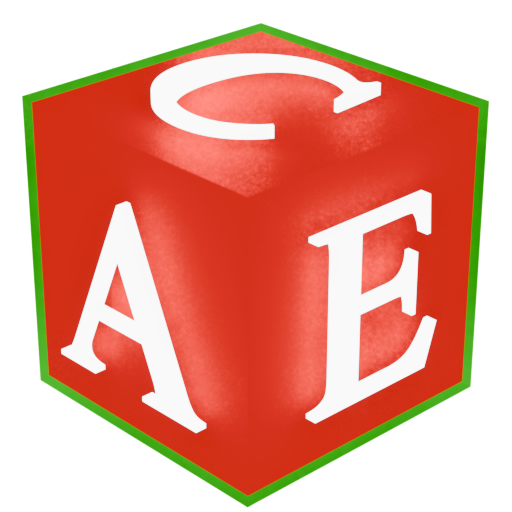
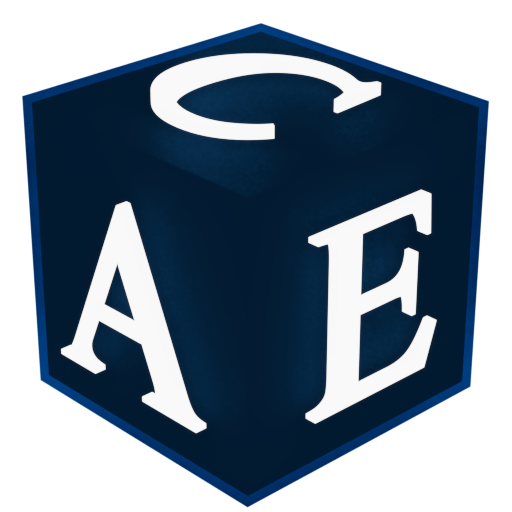
removal of winter theme

diff --git a/resources/navbar.css b/resources/navbar.css
@@ -4,12 +4,12 @@
     justify-content: center;
     flex-shrink: 5;
     border: 1px solid #333333;
-    background: #5f411e;
-    background-image: -webkit-linear-gradient(to top, #5f4e1e, #40382a);
-    background-image: -moz-linear-gradient(top, #5f4e1e, #40382a);
-    background-image: -ms-linear-gradient(top, #5f4e1e, #40382a);
-    background-image: -o-linear-gradient(top, #5f4e1e, #40382a);
-    background-image: radial-gradient(circle, #5f4e1e, #40382a);
+    background: #1e3a5f;
+    background-image: -webkit-linear-gradient(to top, #1e3a5f, #2a3640);
+    background-image: -moz-linear-gradient(top, #1e3a5f, #2a3640);
+    background-image: -ms-linear-gradient(top, #1e3a5f, #2a3640);
+    background-image: -o-linear-gradient(top, #1e3a5f, #2a3640);
+    background-image: radial-gradient(circle, #1e3a5f, #2a3640);
     -webkit-box-shadow: 0px 2px 6px #000000;
     -moz-box-shadow: 0px 2px 6px #000000;
     box-shadow: 0px 2px 6px #000000;
@@ -23,12 +23,12 @@
   }
   
   .ico{
-    background: #5f411e;
-    background-image: -webkit-linear-gradient(top, #5f4e1e, #75664a);
-    background-image: -moz-linear-gradient(top, #5f4e1e, #75664a);
-    background-image: -ms-linear-gradient(top, #5f4e1e, #75664a);
-    background-image: -o-linear-gradient(top, #5f4e1e, #75664a);
-    background-image: linear-gradient(to bottom, #5f4e1e, #75664a);
+    background: #1e3a5f;
+    background-image: -webkit-linear-gradient(top, #1e3a5f, #2a5792);
+    background-image: -moz-linear-gradient(top, #1e3a5f, #2a5792);
+    background-image: -ms-linear-gradient(top, #1e3a5f, #2a5792);
+    background-image: -o-linear-gradient(top, #1e3a5f, #2a5792);
+    background-image: linear-gradient(to bottom, #1e3a5f, #2a5792);
     -webkit-border-radius: 3;
     -moz-border-radius: 3;
     border-radius: 3px;
@@ -57,12 +57,12 @@
   }
   
   .btn {
-    background: #5e5f1e;
-    background-image: -webkit-linear-gradient(top, #5e5f1e, #92902a);
-    background-image: -moz-linear-gradient(top, #5e5f1e, #92902a);
-    background-image: -ms-linear-gradient(top, #5e5f1e, #92902a);
-    background-image: -o-linear-gradient(top, #5e5f1e, #92902a);
-    background-image: linear-gradient(to bottom, #5e5f1e, #92902a);
+    background: #1e3a5f;
+    background-image: -webkit-linear-gradient(top, #1e3a5f, #2a5792);
+    background-image: -moz-linear-gradient(top, #1e3a5f, #2a5792);
+    background-image: -ms-linear-gradient(top, #1e3a5f, #2a5792);
+    background-image: -o-linear-gradient(top, #1e3a5f, #2a5792);
+    background-image: linear-gradient(to bottom, #1e3a5f, #2a5792);
     -webkit-border-radius: 3;
     -moz-border-radius: 3;
     border-radius: 3px;
@@ -74,10 +74,10 @@
     color: #e0e0e0;
     font-size: 15px;
     padding: 6px 40px 6px 40px;
-    border-top: solid #92592a 1px;
-    border-right: solid #5f3b1e 1px;
-    border-bottom: solid #3d1f0d 1px;
-    border-left: solid #5f3b1e 1px;
+    border-top: solid #2a5792 1px;
+    border-right: solid #1e3a5f 1px;
+    border-bottom: solid #0d223d 1px;
+    border-left: solid #1e3a5f 1px;
     text-decoration: none;
   }
   
@@ -107,22 +107,22 @@
   }
   
   .btnunsel:hover {
-    background: #5f481e;
-    background-image: -webkit-linear-gradient(top, #5f481e, #92482a);
-    background-image: -moz-linear-gradient(top, #5f481e, #92482a);
-    background-image: -ms-linear-gradient(top, #5f481e, #92482a);
-    background-image: -o-linear-gradient(top, #5f481e, #92482a);
-    background-image: linear-gradient(to bottom, #5f481e, #92482a);
+    background: #1e3a5f;
+    background-image: -webkit-linear-gradient(top, #1e3a5f, #2a5792);
+    background-image: -moz-linear-gradient(top, #1e3a5f, #2a5792);
+    background-image: -ms-linear-gradient(top, #1e3a5f, #2a5792);
+    background-image: -o-linear-gradient(top, #1e3a5f, #2a5792);
+    background-image: linear-gradient(to bottom, #1e3a5f, #2a5792);
     text-decoration: none;
   }
   
   .btnsel {
-    background: #5f361e;
-    background-image: -webkit-linear-gradient(top, #5f361e, #923f2a);
-    background-image: -moz-linear-gradient(top, #5f361e, #923f2a);
-    background-image: -ms-linear-gradient(top, #5f361e, #923f2a);
-    background-image: -o-linear-gradient(top, #5f361e, #923f2a);
-    background-image: linear-gradient(to bottom, #5f361e, #923f2a);
+    background: #1e3a5f;
+    background-image: -webkit-linear-gradient(top, #1e3a5f, #2a5792);
+    background-image: -moz-linear-gradient(top, #1e3a5f, #2a5792);
+    background-image: -ms-linear-gradient(top, #1e3a5f, #2a5792);
+    background-image: -o-linear-gradient(top, #1e3a5f, #2a5792);
+    background-image: linear-gradient(to bottom, #1e3a5f, #2a5792);
     -webkit-border-radius: 3;
     -moz-border-radius: 3;
     border-radius: 3px;
@@ -134,19 +134,19 @@
     color: #e0e0e0;
     font-size: 15px;
     padding: 6px 40px 6px 40px;
-    border-top: solid #92832a 1px;
-    border-right: solid #5f5e1e 1px;
-    border-bottom: solid #3d380d 1px;
-    border-left: solid #5f5e1e 1px;
+    border-top: solid #2a5792 1px;
+    border-right: solid #1e3a5f 1px;
+    border-bottom: solid #0d223d 1px;
+    border-left: solid #1e3a5f 1px;
     text-decoration: none;
   }
   
   .btn:hover {
-    background: #92902a;
-    background-image: -webkit-linear-gradient(top, #92902a, #92a23a);
-    background-image: -moz-linear-gradient(top, #92902a, #92a23a);
-    background-image: -ms-linear-gradient(top, #92902a, #92a23a);
-    background-image: -o-linear-gradient(top, #92902a, #92a23a);
-    background-image: linear-gradient(to bottom, #92902a, #92a23a);
+    background: #2a5792;
+    background-image: -webkit-linear-gradient(top, #2a5792, #3a67a2);
+    background-image: -moz-linear-gradient(top, #2a5792, #3a67a2);
+    background-image: -ms-linear-gradient(top, #2a5792, #3a67a2);
+    background-image: -o-linear-gradient(top, #2a5792, #3a67a2);
+    background-image: linear-gradient(to bottom, #2a5792, #3a67a2);
     text-decoration: none;
   }

diff --git a/resources/styles.css b/resources/styles.css
@@ -17,12 +17,12 @@ p {
 }
 
 h1 {
-    background: #5f551e;
-    background-image: -webkit-linear-gradient(top, #5f551e, #3d3c0d);
-    background-image: -moz-linear-gradient(top, #5f551e, #3d3c0d);
-    background-image: -ms-linear-gradient(top, #5f551e, #3d3c0d);
-    background-image: -o-linear-gradient(top, #5f551e, #3d3c0d);
-    background-image: linear-gradient(to bottom, #5f551e, #3d3c0d);
+    background: #1e3a5f;
+    background-image: -webkit-linear-gradient(top, #1e3a5f, #0d223d);
+    background-image: -moz-linear-gradient(top, #1e3a5f, #0d223d);
+    background-image: -ms-linear-gradient(top, #1e3a5f, #0d223d);
+    background-image: -o-linear-gradient(top, #1e3a5f, #0d223d);
+    background-image: linear-gradient(to bottom, #1e3a5f, #0d223d);
     -webkit-border-radius: 3;
     -moz-border-radius: 3;
     border-radius: 3px;
@@ -37,10 +37,10 @@ h1 {
     max-width: 32%;
     margin-left: auto;
     margin-right: auto;
-    border-top: solid #926e2a 1px;
-    border-right: solid #5f4b1e 1px;
-    border-bottom: solid #3d2e0d 1px;
-    border-left: solid #5f4b1e 1px;
+    border-top: solid #2a5792 1px;
+    border-right: solid #1e3a5f 1px;
+    border-bottom: solid #0d223d 1px;
+    border-left: solid #1e3a5f 1px;
     text-decoration: none;
     text-align: center;
 }
